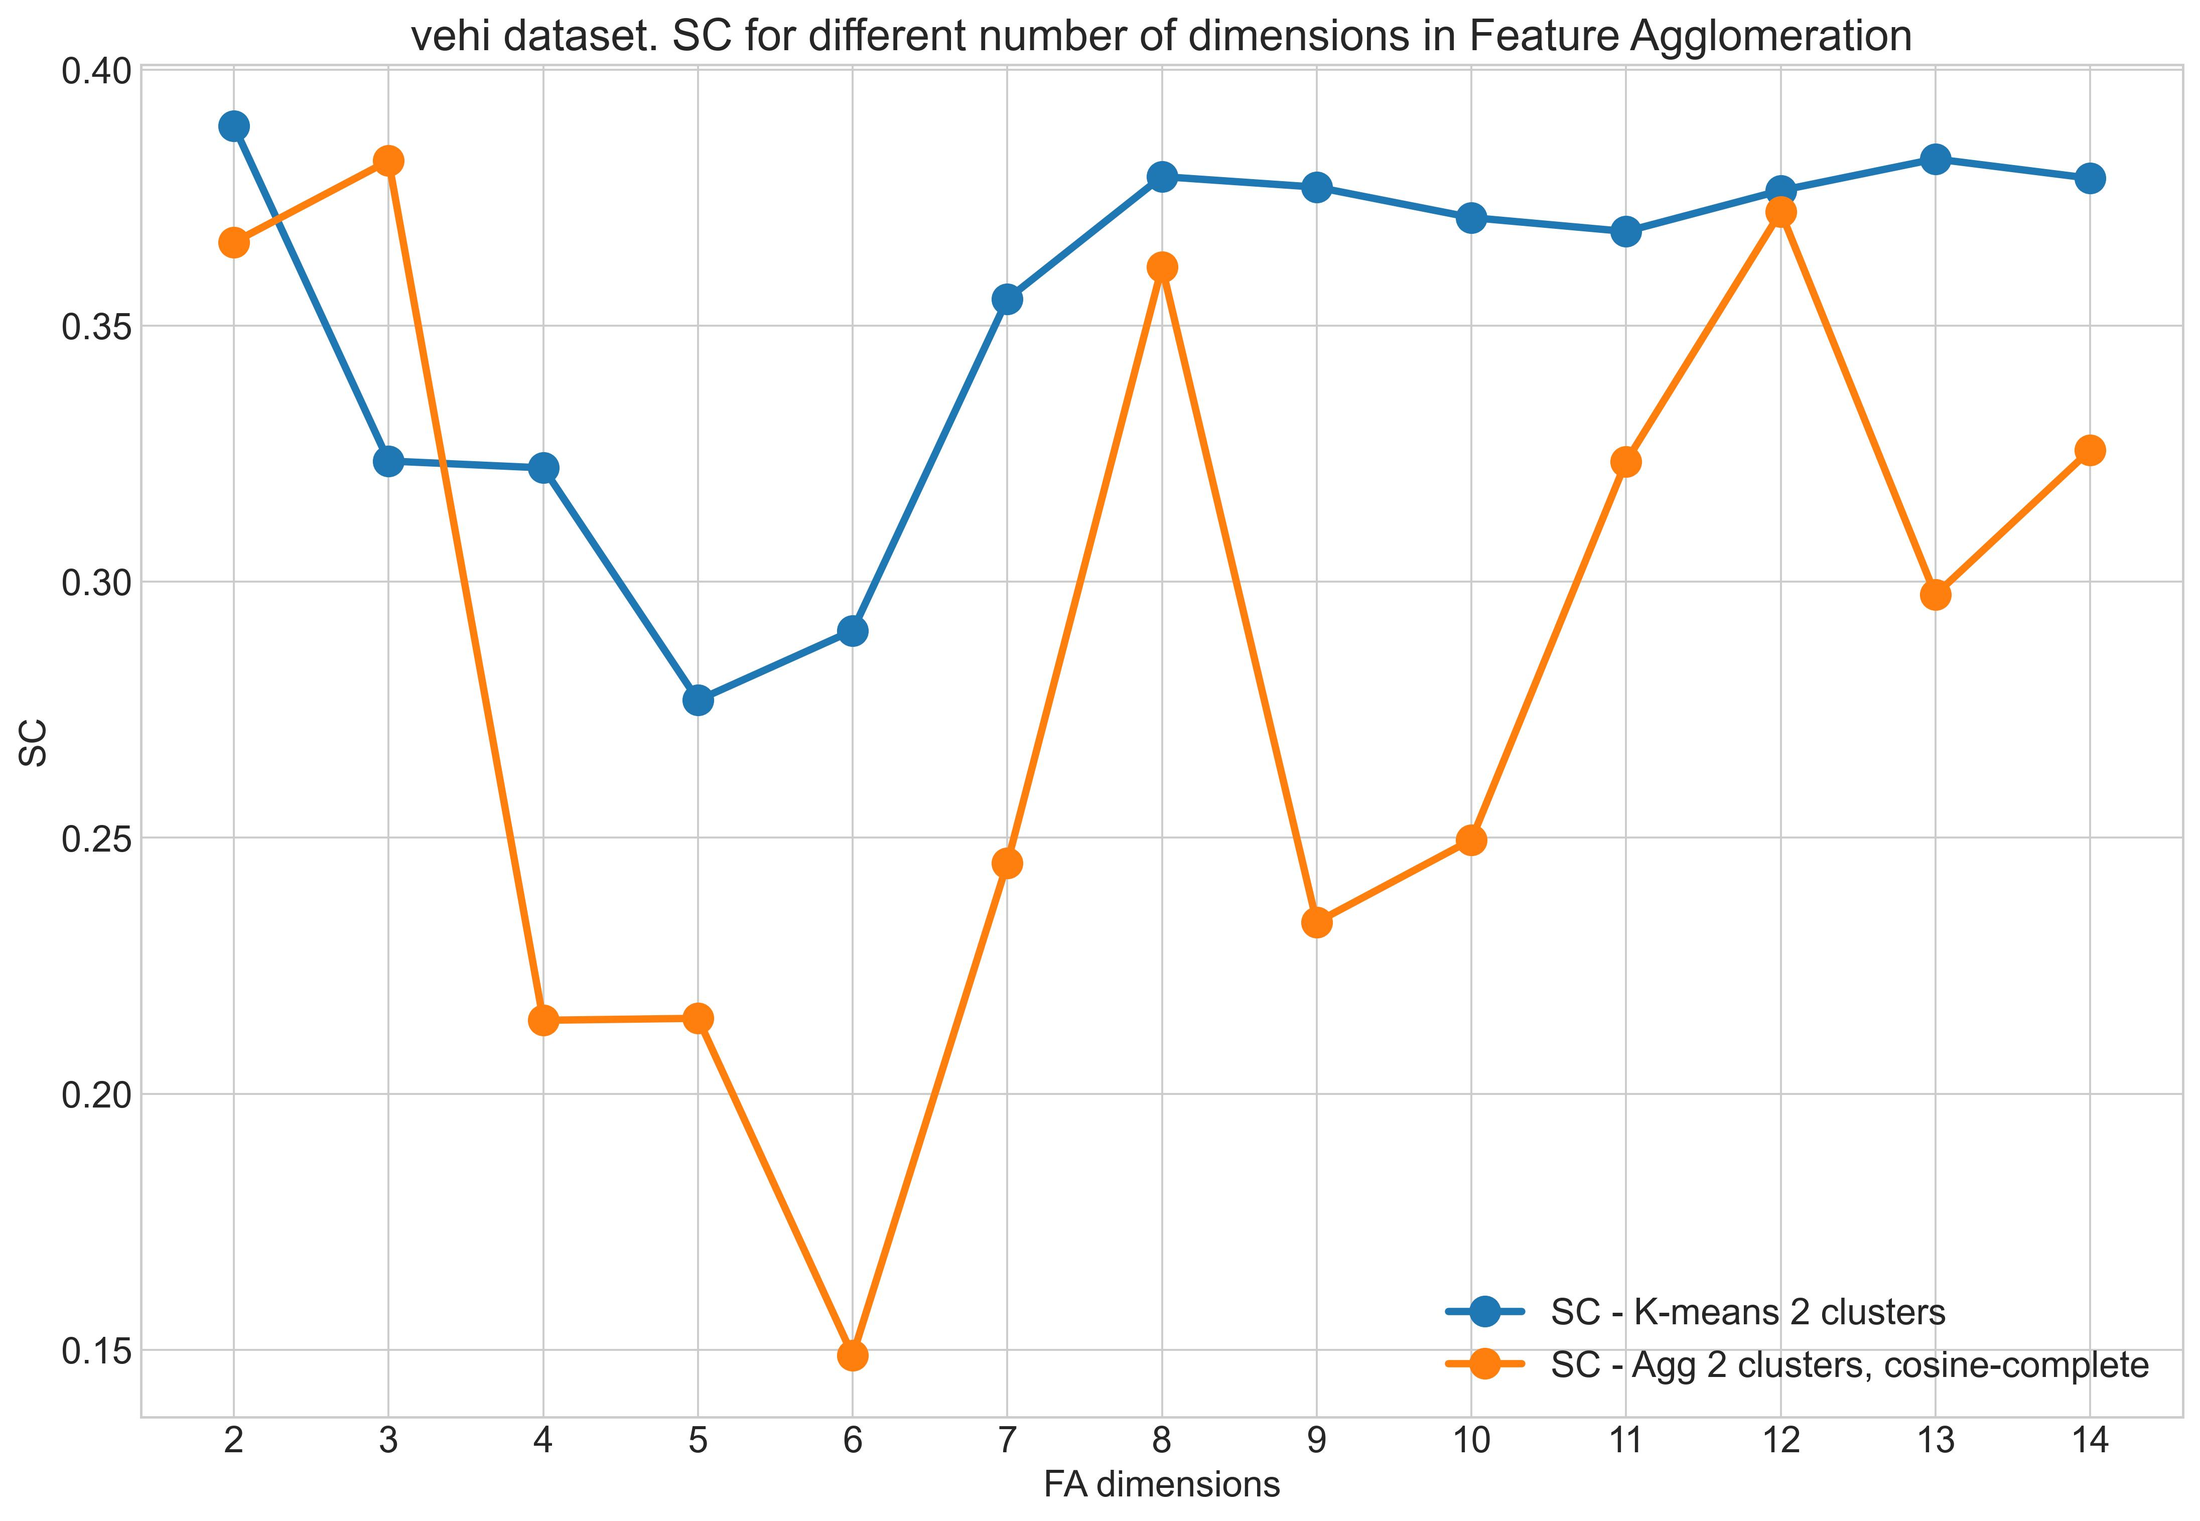
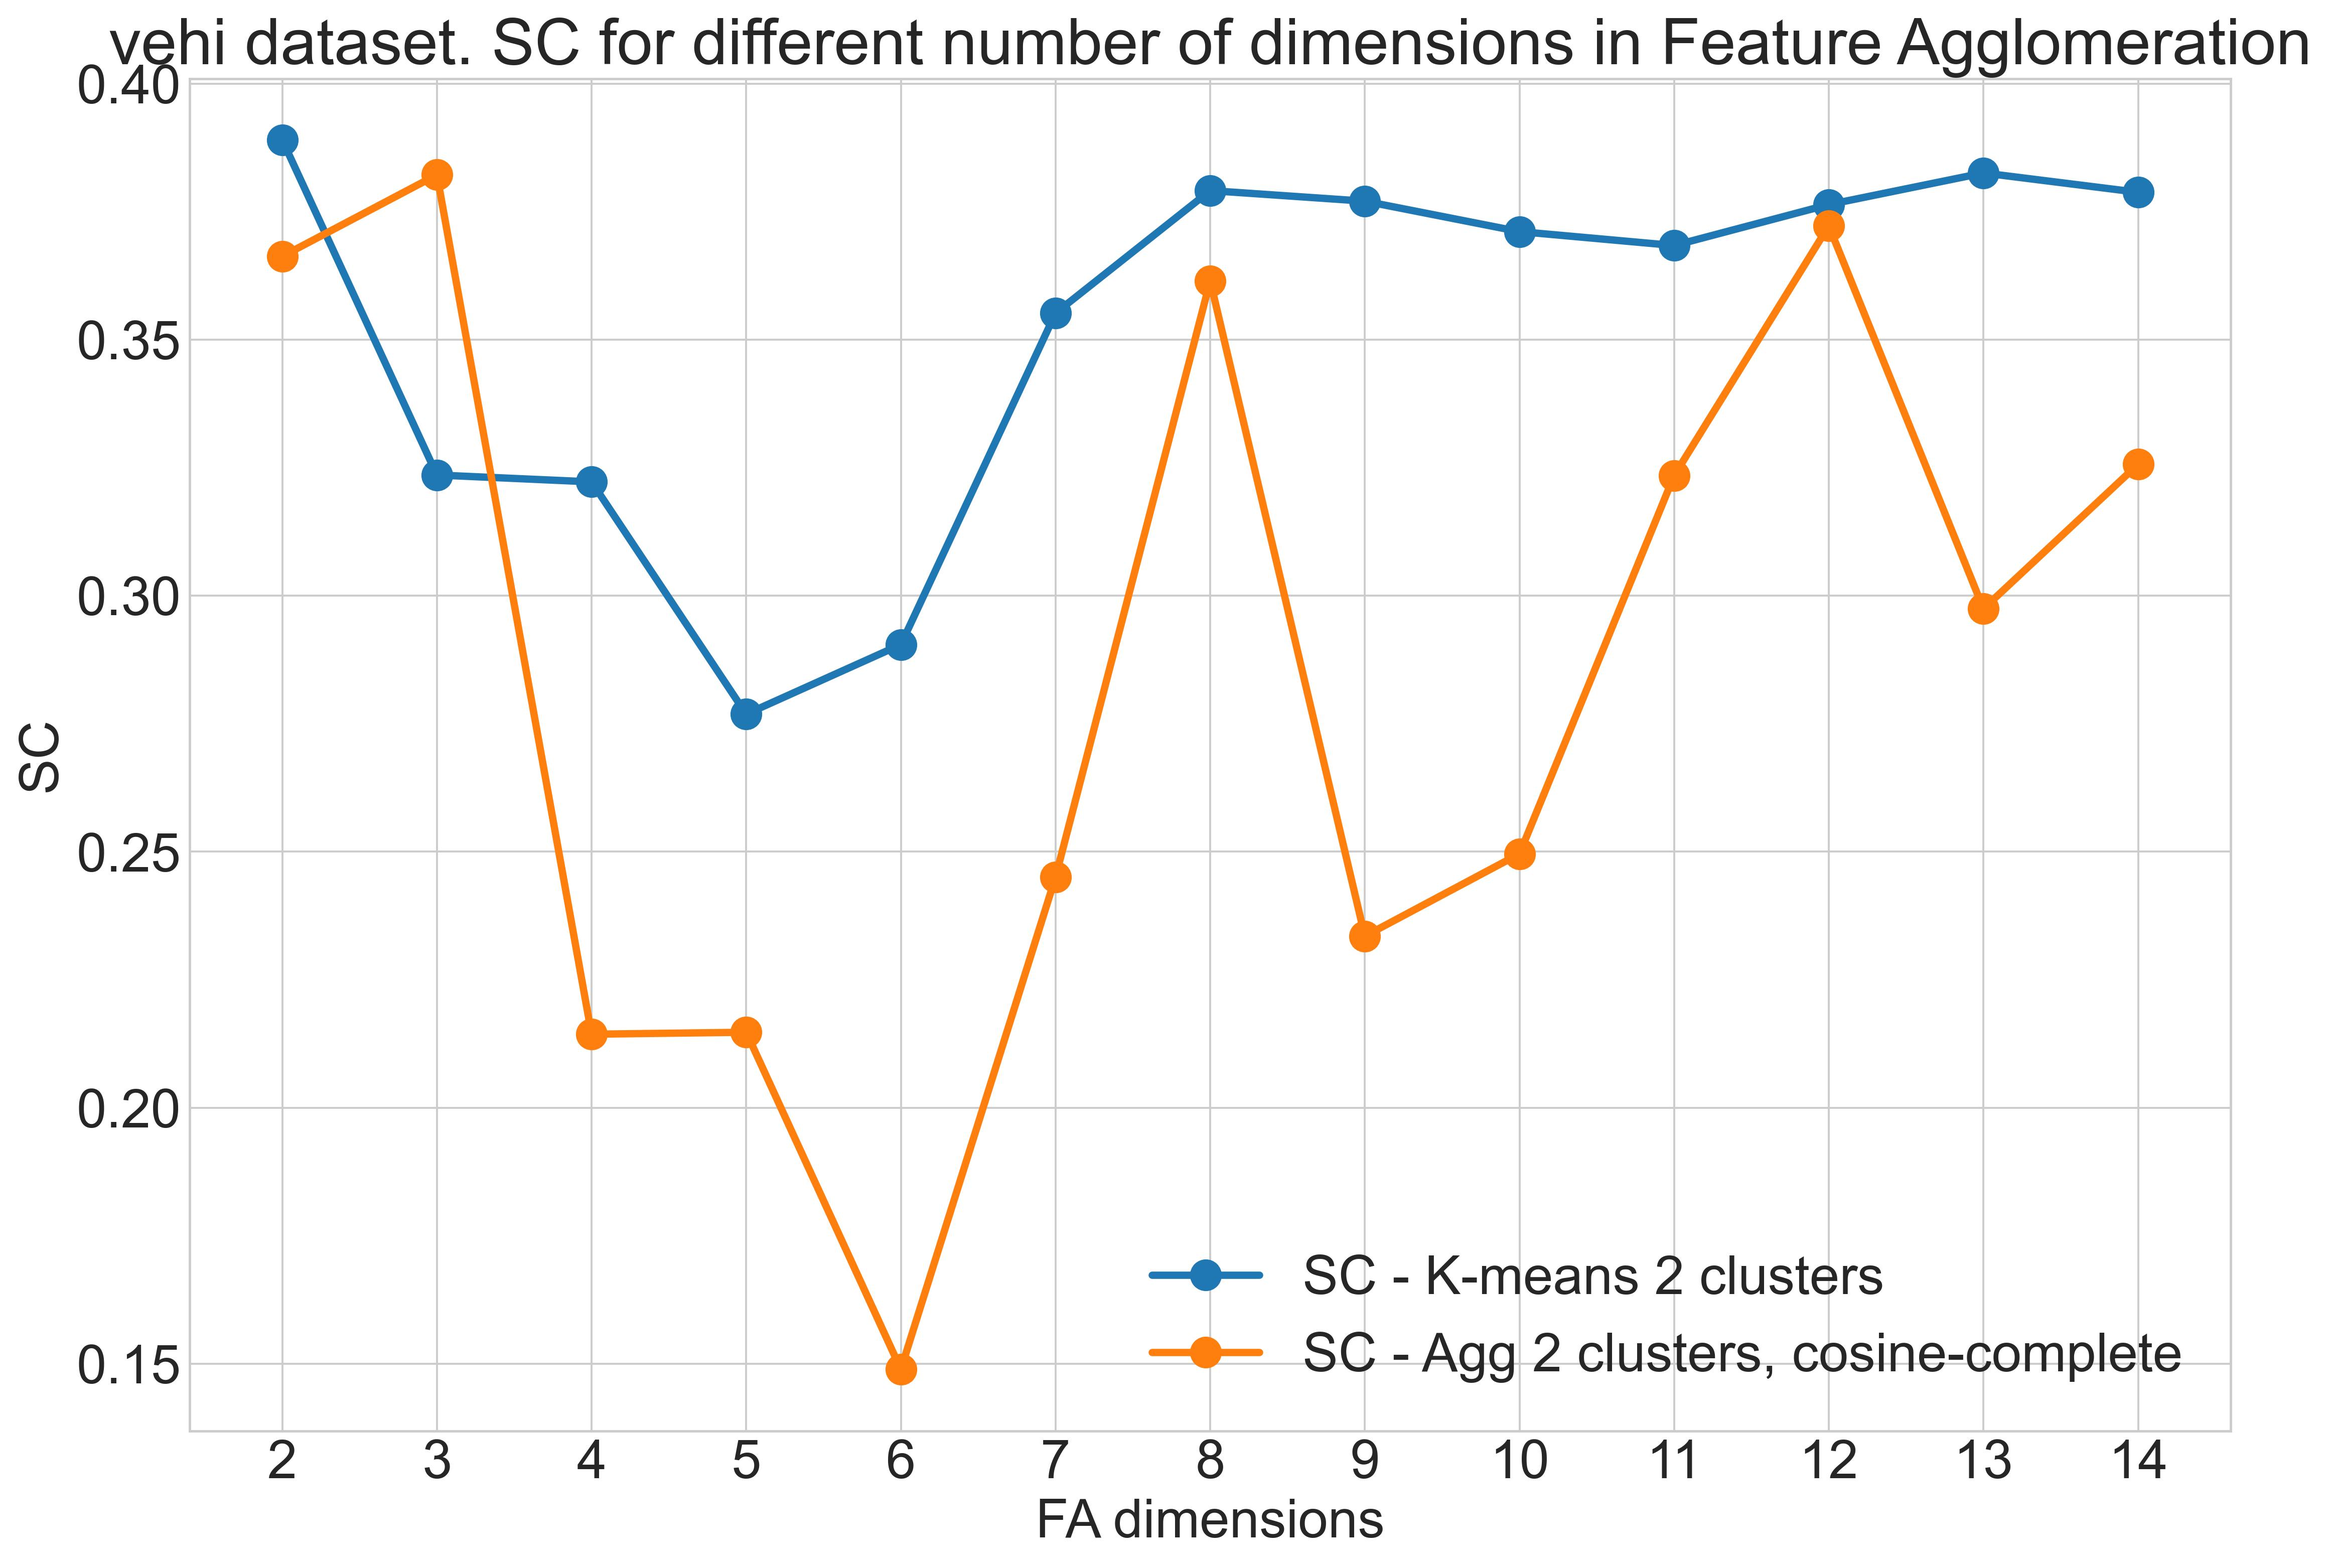
updated readme

diff --git a/main.py b/main.py
@@ -291,6 +291,7 @@ def main():
             eval[n_fa] = [ari_km, ari_agg]
 
         fig = plt.figure(figsize=(15, 10))
+        plt.rcParams.update({'font.size': 22})
         number_dimensions = list(range(2, 15))
         plt.plot(number_dimensions, [v[0] for _, v in eval.items()], marker = 'o', linestyle='solid',  markersize=12, linewidth=3,
                  label = 'SC - K-means {} clusters'.format(best_configs[config['dataset']]['kmeans'][0]))

diff --git a/README.md b/README.md
@@ -43,6 +43,7 @@ python main.py --dataset <dataset>
                --plot_scores_colored_by_cluster <plot_scores_colored_by_cluster>
                --affinity <affinity>
                --linkage <linkage>
+               --analyze_fa_components <analyze_fa_components>
 ```
 Specifying the parameters  according to the following table:
 
